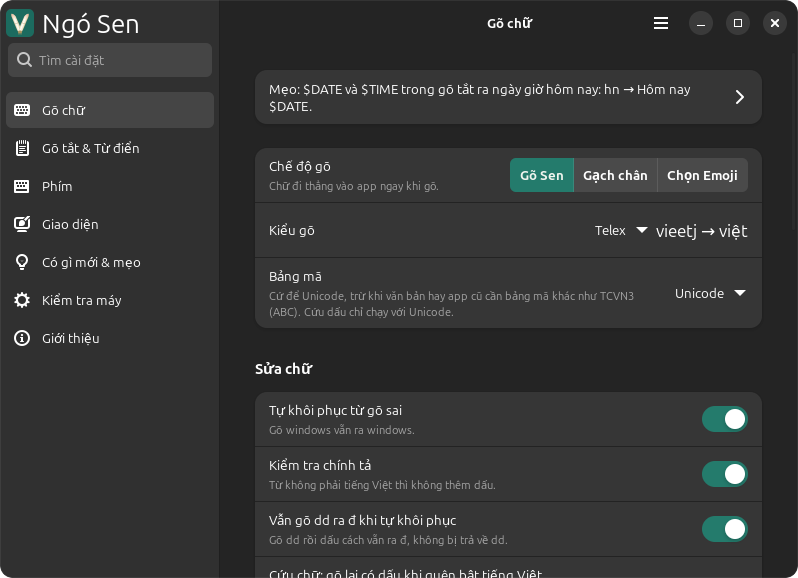
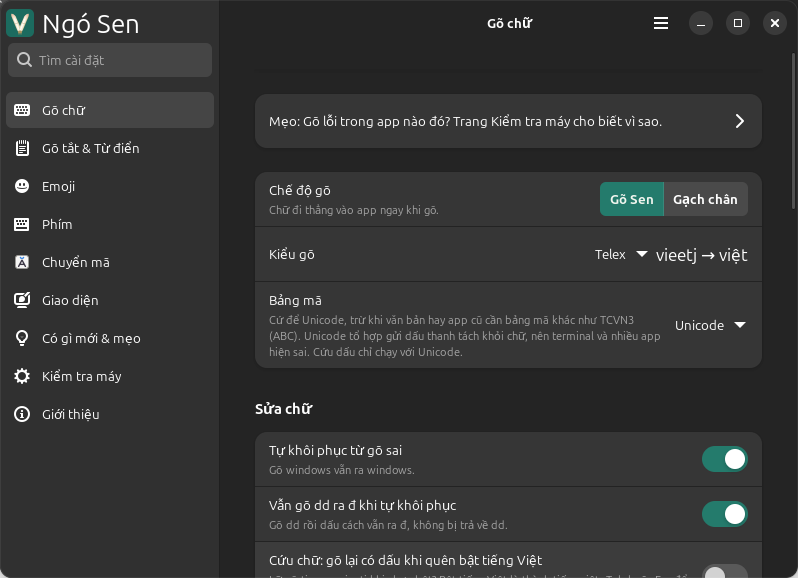
feat: publish release 1.14.0-1
Adds the 1.14.0-1 entry, picked from CHANGELOG.md on main, and its
tested note from packaging/release-notes.md, and drops the spell check
item that left ROADMAP.md with this release.

The tray guide now covers "Khay hiện" (coloured icon, V / E, vi / en,
custom images), and the spell check guide becomes "Chữ không có trong
từ điển", since auto restore now always checks the dictionary. Tested
with the released deb on Mint 22.1, Firefox: kaj stays kaj 2/2 with
auto restore on, gives kạ 2/2 with it off. The search example becomes
"khoi phuc". Cứu dấu gains the Gạch chân retone paragraph, limited to
what was tried for the release: GNOME Text Editor and Chromium on KDE
Wayland work, Chromium on X11 does not. The bug report page gets the
README's line on asking an AI assistant.

Screenshots of the settings window are retaken from the released
1.14.0-1 package: the GTK window on Mint 22.1 Cinnamon and the Qt
window on CachyOS KDE Plasma 6.7.5. The tray guide's shot is GTK, so
its "pictures show the Qt window" note is turned off.

Also brings older text in line with the README: new installs start
with Vietnamese on; the Preedit click loss also hits GTK apps using
the ibus module on X11, such as xed; LibreOffice on KDE Wayland repeats
the underlined word after a click. Five older release entries showed a
code span instead of the ` key; they now escape it.

Assisted-by: AI

diff --git a/src/data/site.ts b/src/data/site.ts
@@ -33,6 +33,64 @@ export const RELEASES: {
   prRepo?: string;
 }[] = [
   {
+    version: '1.14.0-1',
+    date: '22/11/2026',
+    summary:
+      'Khay có thể hiện chữ “vi” / “en” hoặc ảnh tự chọn thay cho biểu tượng. Gõ Preedit: bôi đen một từ đã gõ rồi gõ phím dấu thì đổi được dấu, như Gõ Sen. Nhờ AI tìm lỗi gõ nay có trang hướng dẫn riêng cho AI và lệnh “ngosen-check”. Bỏ ô “Kiểm tra chính tả”, và cài lần đầu trên KDE không còn đổi bàn phím về English. Gợi ý emoji không còn bật lên khi gõ chữ cái đơn, con số hay chữ tắt như “t”, “ng”, “vs”.',
+    changes: [
+      {
+        claim: 'Khay có thể hiện chữ “vi” / “en” thay cho biểu tượng, theo màu đã chọn trong “Màu biểu tượng”. Chọn ở mục “Khay hiện”, mục này thay cho ô “Sử dụng biểu tượng trạng thái Ngó Sen”; chữ “V” / “E” một màu cũ nay là lựa chọn “V / E”, chữ “E” có thêm một lỗ ngó.',
+        source: 'Ai đã tắt ô “Sử dụng biểu tượng trạng thái Ngó Sen” thì chọn lại “V / E” sau khi cập nhật.',
+        pr: 908,
+      },
+      {
+        claim: 'Khay có thể hiện ảnh tự chọn, một ảnh khi gõ tiếng Việt và một ảnh khi gõ tiếng Anh: chọn “Ảnh tự chọn” ở mục “Khay hiện” rồi chọn ảnh SVG hoặc PNG. Ngôn ngữ chưa có ảnh vẫn hiện biểu tượng màu.',
+        source: 'Các mức của “Màu biểu tượng” nay ghi rõ “Hợp panel sáng” và “Hợp panel tối”. Gồm #912, #917.',
+        pr: 911,
+      },
+      {
+        claim: 'Gõ Preedit: bôi đen một từ đã gõ rồi gõ phím dấu thì từ hiện lại trong chữ tạm với dấu mới (bôi đen “tiềng”, gõ “s” ra “tiếng”), như Gõ Sen đã làm. Gõ lại phím dấu đó để giữ phím như đã gõ. Chạy ở app GTK 4 và Chromium; app khác vẫn thay từ bằng phím như trước.',
+        source: '',
+        pr: 921,
+      },
+      {
+        claim: 'Trang hướng dẫn cho AI: nhờ AI tìm lỗi gõ thì gửi nó trang này. AI làm theo trang Kiểm tra máy và nhật ký gõ, để bạn tự bấm nút sửa, và nhắc bạn đọc kỹ trước khi dán thông tin máy.',
+        source: 'Trang nằm ở “docs/ai-help.md” trong repo Ngó Sen.',
+        pr: 931,
+      },
+      {
+        claim: 'Lệnh “ngosen-check” in kết quả Kiểm tra máy ra terminal, kèm cách sửa từng bước, để AI chạy lệnh được đọc. Lệnh không đổi gì trên máy, không ghi tên app (trừ khi thêm “--include-apps”) và không ghi chữ đã gõ.',
+        source: '',
+        pr: 933,
+      },
+      {
+        claim: 'Bỏ ô “Kiểm tra chính tả” khỏi cửa sổ cài đặt và menu khay, vì nó chỉ có tác dụng khi “Tự khôi phục từ gõ sai” đang bật: nay Tự khôi phục luôn so với từ điển.',
+        source: 'Ai từng tắt ô này để giữ dấu cho chữ kiểu chat như “zậy”, “kạ”, hãy bật chế độ Teencode cho app đó (phím “\\`”), hoặc thêm chữ muốn giữ vào Từ điển tuỳ chỉnh. Issue #112.',
+        pr: 925,
+      },
+      {
+        claim: 'Cài lần đầu trên KDE không còn đổi bàn phím về English sau mỗi lần khởi động lại: lệnh cài giữ layout đang đặt trong System Settings (như bàn phím Nhật), hoặc layout của hệ thống nếu chưa đặt.',
+        source: '',
+        pr: 942,
+      },
+      {
+        claim: 'Gợi ý emoji: chữ cái đơn, con số và chữ tắt khi chat không còn gợi ý emoji theo từ khoá tiếng Anh, như gõ “t” không còn hiện 🦖, “2” không còn hiện 2⃣, “ng”, “vs” không còn hiện 🆖, 🆚.',
+        source: '',
+        pr: 945,
+      },
+      {
+        claim: 'Trên KDE, chữ “vi” / “en” và “V” / “E” ở khay được vẽ lại theo đúng lưới điểm ảnh của khay: nét mảnh và sắc như các biểu tượng bên cạnh, thay vì đậm và nhoè.',
+        source: '',
+        pr: 946,
+      },
+      {
+        claim: 'Bật Vim mode trong một cửa sổ không báo tên app rồi đóng nó thì cửa sổ mở sau không còn có thể bị bật Vim mode theo.',
+        source: '',
+        pr: 949,
+      },
+    ],
+  },
+  {
     version: '1.13.2-1',
     date: '22/11/2026',
     summary:
@@ -111,7 +169,7 @@ export const RELEASES: {
     changes: [
       {
         claim: 'Phím chuyển Anh/Việt nay mặc định chuyển mọi app cùng lúc như UniKey, kể cả khi cập nhật. Cài mới bật sẵn tiếng Việt; người dùng cũ giữ trạng thái đang dùng.',
-        source: 'App đặt Tắt trong menu “`” vẫn gõ tiếng Anh; bấm phím chuyển tại đó mở menu để chọn Gõ Sen hoặc Gạch chân. Muốn mỗi app nhớ riêng như trước, chọn “Từng app” ở “Phím chuyển áp dụng cho”, ngay dưới phím chuyển trên trang Phím tắt.',
+        source: 'App đặt Tắt trong menu “\\`” vẫn gõ tiếng Anh; bấm phím chuyển tại đó mở menu để chọn Gõ Sen hoặc Gạch chân. Muốn mỗi app nhớ riêng như trước, chọn “Từng app” ở “Phím chuyển áp dụng cho”, ngay dưới phím chuyển trên trang Phím tắt.',
         pr: 825,
       },
       {
@@ -145,7 +203,7 @@ export const RELEASES: {
         pr: 852,
       },
       {
-        claim: 'Teencode, bật riêng cho từng app bằng phím “t” trong menu “`”, mặc định tắt: chữ viết kiểu teencode như “zậy”, “fải”, “đag”, “nhưg” giữ dấu thay vì trả về phím đã gõ.',
+        claim: 'Teencode, bật riêng cho từng app bằng phím “t” trong menu “\\`”, mặc định tắt: chữ viết kiểu teencode như “zậy”, “fải”, “đag”, “nhưg” giữ dấu thay vì trả về phím đã gõ.',
         source: 'Gõ thanh sau “g”, “k”, “h” vẫn được (“nhuwgx” ra “nhữg”); giữ cả chữ kéo dài (“nhaaa”) và viết tắt ghép (“cgái”, “bthường”) (#833). Trang Gõ trong cửa sổ cài đặt có mục Teencode với danh sách app đang bật, mỗi app có nút tắt; bản sao lưu cài đặt giữ cả danh sách này (#844). Gồm #701, #843.',
         pr: 829,
       },
@@ -208,7 +266,7 @@ export const RELEASES: {
         pr: 864,
       },
       {
-        claim: 'Menu chọn chế độ gõ (mở bằng “`”) nay đóng ngay khi click chuột ra ngoài, thay vì chờ tới phím kế tiếp; trên KDE, click vào ô đang gõ trong Firefox, gnome-text-editor hay Dolphin cũng đóng menu.',
+        claim: 'Menu chọn chế độ gõ (mở bằng “\\`”) nay đóng ngay khi click chuột ra ngoài, thay vì chờ tới phím kế tiếp; trên KDE, click vào ô đang gõ trong Firefox, gnome-text-editor hay Dolphin cũng đóng menu.',
         source: 'Click lên một mục trong menu vẫn chọn mục đó. Ở nơi click không đóng được menu, như Konsole, menu để yên vẫn tự tắt sau 5 giây như trước (#850). Gồm #840.',
         pr: 836,
       },
@@ -231,7 +289,7 @@ export const RELEASES: {
         pr: 815,
       },
       {
-        claim: 'Khi menu chọn chế độ gõ (mở bằng “`”) đang hiện, bấm một phím không có trong menu nay đóng menu và gõ ra phím đó, thay vì menu đứng yên và phím bị nuốt. Không bấm gì thì menu tự tắt sau 5 giây.',
+        claim: 'Khi menu chọn chế độ gõ (mở bằng “\\`”) đang hiện, bấm một phím không có trong menu nay đóng menu và gõ ra phím đó, thay vì menu đứng yên và phím bị nuốt. Không bấm gì thì menu tự tắt sau 5 giây.',
         source: 'Gồm #817.',
         pr: 814,
       },
@@ -264,7 +322,7 @@ export const RELEASES: {
         pr: 788,
       },
       {
-        claim: 'Phím “w” trong menu “`” nay bật/tắt gợi ý emoji cho app đang dùng, giống Vim mode; chế độ gõ của app giữ nguyên.',
+        claim: 'Phím “w” trong menu “\\`” nay bật/tắt gợi ý emoji cho app đang dùng, giống Vim mode; chế độ gõ của app giữ nguyên.',
         source: 'Gồm #110.',
         pr: 791,
       },
@@ -2022,7 +2080,8 @@ export const LEVELS_NOTE =
   ' Gói 1.12.2-1 do CI dựng từ PR phát hành #865 đã được cài đè lên 1.12.1-1 bằng gói rpm Fedora 45 x86_64 và gõ thử ngày 18/11/2026 trên Fedora 45 (GNOME 51.1 Wayland, fcitx5 5.1.23) với Gõ Sen, Telex, thiết lập mặc định, cách nhau 0,15 giây giữa các phím, khởi động lại fcitx5 trước mỗi lượt. Trong Local Terminal của VaultID 0.2.36 (terminal dùng xterm.js, app không được GNOME Shell báo tên), “ddaay laf tieengs vieetj” ra “đây là tiếng việt” đúng 3/3 lượt (#864). Trong GNOME Text Editor, “tooi ddiw hojc tieengs vieetj raast nhanh” ra “tôi đi học tiếng việt rất nhanh” đúng 3/3 lượt. Chưa thử lần này: VNI, X11, KDE, Ubuntu, Linux Mint, Debian, openSUSE, Arch, tiling desktops, cài mới và lệnh cài, xterm.js trong Firefox và Epiphany (#846, #853), Brave (#842), menu chọn chế độ gõ (#836, #840, #850), gõ lại dấu thanh (#835) ngoài unit test, và Backspace trong Firefox trên GNOME (#831).' +
   ' Gói 1.13.0-1 do CI dựng từ PR phát hành #896 đã được gõ thử ngày 20/11/2026 với Gõ Sen, Telex, cách nhau 0,15 giây giữa các phím, trang textarea, 2 lượt mỗi câu. Sáu câu: “tieengs vieetj laf ngoon nguwx cuar nguwowif vieetj nam ” ra “tiếng việt là ngôn ngữ của người việt nam”, “sose2026 tooi2 ” ra “sose2026 tôi2”, “/cost cd /usr/share ” giữ nguyên, “xin dduowjcd coongty nhuwg ” ra “xin được công ty nhưng”, “cuxg khoog ” ra “cũng không”, và gõ kéo dài “afaaa ” ra “àààà”. Linux Mint 22.1 (Cinnamon X11, fcitx5 5.1.7, gói deb “noble” cài đè lên bản dựng thử 1.12.2), Chromium 154 và Firefox 157: đúng 24/24. Fedora 45 (KDE Plasma 6.8.3 Wayland, fcitx5 5.1.23, gói rpm cài đè lên 1.12.2-1), Brave 1.99.57 và Firefox 158: đúng 24/24. Trên Mint, gợi ý emoji cuối câu trong Firefox: “cuwowif quas.” hiện bảng “1.😂 2.🤣 …”, bấm 1 ra “cười quá. 😂”. Trên Fedora, thông báo của version 1.13 hiện bằng tiếng Việt sau khi cài. Chưa thử lần này: VNI, GNOME, Ubuntu, Debian, openSUSE, Arch và gói AUR, Sway, Hyprland, niri, terminal (kể cả xterm.js, #878, #880), cài mới và lệnh cài, phím chuyển cho mọi app (#825), teencode, lệnh “ngosen-toggle”, Xuất/Nhập trên trang Emoji, và gợi ý emoji trên GNOME không có extension Input Method Panel.' +
   ' Gói 1.13.1-1 do CI dựng từ PR phát hành #909 đã được gõ thử ngày 20/11/2026 với Gõ Sen, Telex, cách nhau 0,15 giây giữa các phím, trang textarea, 2 lượt mỗi câu, cùng sáu câu như 1.13.0. Linux Mint 22.1 (Cinnamon X11, fcitx5 5.1.7, gói deb “noble” cài đè lên 1.13.0-1), Chromium 154 và Firefox 157: đúng 24/24. Fedora 45 (KDE Plasma 6.8.3 Wayland, fcitx5 5.1.23, gói rpm cài đè lên 1.13.0-1), Brave 1.99.57 và Firefox 158: đúng 24/24. Backspace trong chữ kéo dài và teencode, trên Mint trong Chromium, năm câu “chaiiif”, “chaiiif” rồi “i”, “aaaf”, và với teencode “fair”, “nhuwgx”, mỗi câu bấm Backspace một lần rồi Space: Gõ Sen đúng 10/10, Preedit đúng 10/10; cùng cách thử, 1.13.0-1 đúng 10/10 ở Gõ Sen nhưng 0/10 ở Preedit. Chưa thử lần này: WPS trên KDE (#897), Nhập từ gợi ý emoji (#899) ngoài test tự động, VNI, GNOME, Ubuntu, Debian, openSUSE, Arch, tiling desktops, cài mới và lệnh cài.' +
-  ' Gói 1.13.2-1 do CI dựng từ PR phát hành #935 đã được gõ thử ngày 21–22/11/2026 với Gõ Sen, Telex, cách nhau 0,15 giây giữa các phím. Trang textarea, 2 lượt mỗi câu, cùng sáu câu như 1.13.0: Linux Mint 22.1 (Cinnamon X11, fcitx5 5.1.7, gói deb “noble” cài đè lên 1.13.1-1), Chromium 154 và Firefox 157: đúng 24/24; Fedora 45 (GNOME 51.1 Wayland, fcitx5 5.1.23, gói rpm cài đè lên 1.13.1-1), Firefox 158 và Brave 1.99.57: đúng 24/24. Terminal xterm.js trong VS Code 1.147 và Tabby 1.0.238, gõ “ddaay laf tieengs vieetj ” vào dấu nhắc readline, 8 dòng mỗi app: 3 dòng liền, 3 lần gõ nửa câu rồi sang cửa sổ khác 2 giây và quay lại, rồi khởi động lại fcitx5 và gõ thêm một dòng liền, một lần quay lại. Mint: đúng 16/16. Fedora 45 GNOME: đúng 15/16, dòng sai là dòng đầu trong Tabby (“đaây”) lúc Ngó Sen đang nhận ra app, 1.13.1 cũng sai dòng này. Fedora 45 KDE Plasma 6.8.3 Wayland: đúng 16/16. Trên cả GNOME và KDE, Ngó Sen ghi VS Code và Tabby vào “ngosen-web-terminal-apps.conf”. Chưa thử: Arch, Debian, openSUSE, và terminal của Orca IDE, Antigravity.';
+  ' Gói 1.13.2-1 do CI dựng từ PR phát hành #935 đã được gõ thử ngày 21–22/11/2026 với Gõ Sen, Telex, cách nhau 0,15 giây giữa các phím. Trang textarea, 2 lượt mỗi câu, cùng sáu câu như 1.13.0: Linux Mint 22.1 (Cinnamon X11, fcitx5 5.1.7, gói deb “noble” cài đè lên 1.13.1-1), Chromium 154 và Firefox 157: đúng 24/24; Fedora 45 (GNOME 51.1 Wayland, fcitx5 5.1.23, gói rpm cài đè lên 1.13.1-1), Firefox 158 và Brave 1.99.57: đúng 24/24. Terminal xterm.js trong VS Code 1.147 và Tabby 1.0.238, gõ “ddaay laf tieengs vieetj ” vào dấu nhắc readline, 8 dòng mỗi app: 3 dòng liền, 3 lần gõ nửa câu rồi sang cửa sổ khác 2 giây và quay lại, rồi khởi động lại fcitx5 và gõ thêm một dòng liền, một lần quay lại. Mint: đúng 16/16. Fedora 45 GNOME: đúng 15/16, dòng sai là dòng đầu trong Tabby (“đaây”) lúc Ngó Sen đang nhận ra app, 1.13.1 cũng sai dòng này. Fedora 45 KDE Plasma 6.8.3 Wayland: đúng 16/16. Trên cả GNOME và KDE, Ngó Sen ghi VS Code và Tabby vào “ngosen-web-terminal-apps.conf”. Chưa thử: Arch, Debian, openSUSE, và terminal của Orca IDE, Antigravity.' +
+  ' Gói 1.14.0-1 do CI dựng từ PR phát hành #944 đã được gõ thử ngày 22/11/2026 với Gõ Sen, Telex, cách nhau 0,15 giây giữa các phím. Trang textarea, 2 lượt mỗi câu, cùng sáu câu như 1.13.0: Linux Mint 22.1 (Cinnamon X11, fcitx5 5.1.7, gói deb “noble” cài đè lên 1.13.2-1), Chromium 154 và Firefox 157: đúng 24/24; CachyOS (KDE Plasma 6.7.5 Wayland, fcitx5 5.1.23, gói Arch cài đè lên 1.13.0-1), Chromium 154 và Firefox 157: đúng 24/24, Firefox tính lượt chạy lại vì lượt đầu gửi 8 phím đầu trước khi trang có focus. Đổi dấu ở Preedit: gõ “xin tieengf nuwax ”, bôi đen “tiềng”, gõ “s” rồi Space ra “xin tiếng  nữa”, đúng 3/3 trong GNOME Text Editor 51 và 3/3 trong Chromium trên KDE; Chromium trên X11 không báo surrounding text nên phím “s” vẫn thay cả từ, 0/3 như dự đoán. Bấm Ctrl+S ngay sau khi đổi dấu trong GNOME Text Editor: gói trước #947 nuốt Ctrl+S và để lại “xin s nữa” 2/2, gói có #947 lưu tệp “xin tiếng nữa”, 2/2. Khay “vi” / “en”, “V” / “E” và ảnh tự chọn đúng trên KDE và Cinnamon. Hàm thêm Ngó Sen vào profile của “install.sh” trên KDE với bàn phím “jp”: sau khi khởi động lại vẫn là “jp”, bản trên “main” đổi thành “us”. Gợi ý emoji trong Firefox trên Mint, gõ “t uống cà phê”: gói trước #945 hiện ☕ và 🦖, gói có #945 chỉ hiện ☕, 2/2. “ngosen-check” thoát mã 0 trên cả hai máy. Sáu câu, đổi dấu và “ngosen-check” chạy trên bản dựng trước #945; emoji và khay KDE trên bản dựng có #945, #946; Ctrl+S trên bản dựng có #947, #948; #949 chỉ được kiểm bằng test tự động. Chưa thử lần này: GNOME, Ubuntu, Debian, Fedora, openSUSE, VNI, đổi dấu trong app Qt, khay KDE nền tối.';
 
 // Mirrors the "Máy ARM 64-bit" row of packaging/release-notes.md, which spans several distros and cores.
 export const ARM_NOTE = {
@@ -2263,8 +2322,8 @@ export const GUIDE = [
       },
       {
         href: '/huong-dan/kiem-tra-chinh-ta/',
-        label: 'Kiểm tra chính tả',
-        summary: 'Chữ không có trong từ điển, thêm chữ vào từ điển riêng.',
+        label: 'Chữ không có trong từ điển',
+        summary: 'Tự khôi phục từ gõ sai so với từ điển, thêm chữ vào từ điển riêng.',
       },
     ],
   },
@@ -2299,7 +2358,7 @@ export const GUIDE = [
       {
         href: '/huong-dan/icon-khay/',
         label: 'Đổi icon trên khay',
-        summary: 'Icon trạng thái hay một màu, ẩn mục trong menu khay, ngôn ngữ giao diện.',
+        summary: 'Biểu tượng màu, chữ V / E, vi / en hay ảnh tự chọn, ẩn mục trong menu khay, ngôn ngữ giao diện.',
       },
       {
         href: '/huong-dan/cua-so-cai-dat/',
@@ -2348,10 +2407,6 @@ export const ROADMAP: {
       {
         text: 'Đưa Ngó Sen vào repo của các distro: từ 1.5.3 đã có repo riêng có chữ ký cho Fedora (COPR), Debian và Ubuntu (APT), Arch (pacman) và openSUSE Tumbleweed. nixpkgs đang chờ review. Từ 1.13 có gói AUR; kho Debian đã nhận bản 1.9.2 vào testing.',
         links: [{ label: 'NixOS/nixpkgs#575620', href: 'https://github.com/NixOS/nixpkgs/pull/575620' }],
-      },
-      {
-        text: 'Gộp “Kiểm tra chính tả” vào “Tự khôi phục từ gõ sai”, vì nó chỉ có tác dụng khi Tự khôi phục đang bật.',
-        refs: [112],
       },
     ],
   },
